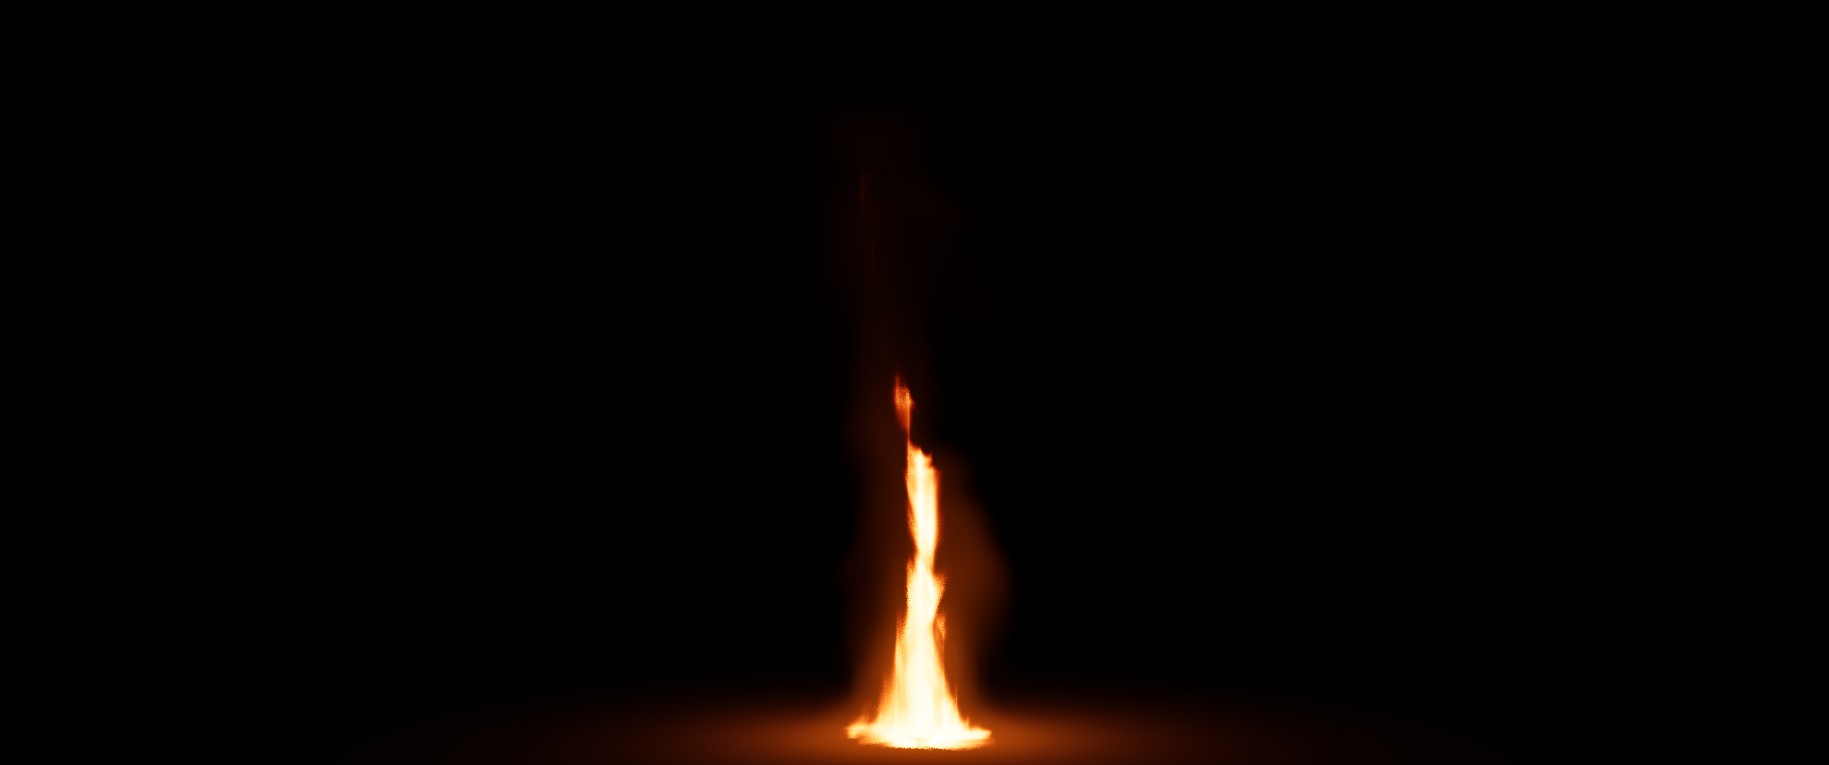
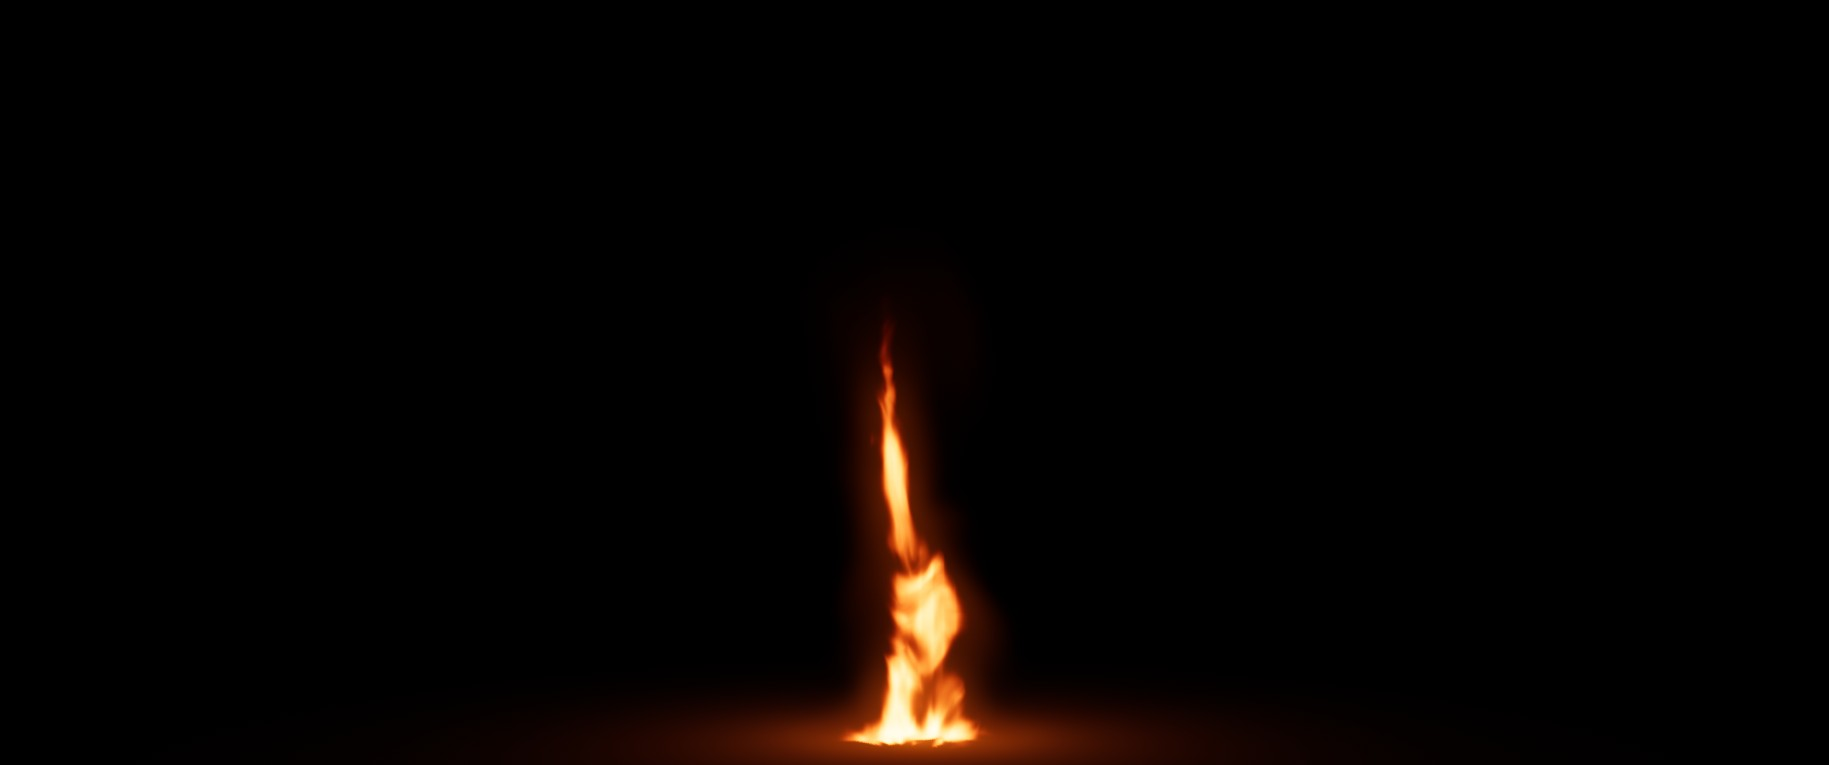
Pyro: the ball starts nearer the fire; new posters
The ball default spot sat partly off a phone-shaped frame. Posters
re-rendered with the accumulation and tricubic sampling.

Changed region(s): [[0.4363, 0.4209, 0.5921, 1.0]]

diff --git a/components/pyro/engine.ts b/components/pyro/engine.ts
@@ -283,7 +283,7 @@ export class PyroEngine {
   private renderFrame = 0
   // The collision ball: its centre and velocity (from the visitor's drags, easing to rest), and its uniform for the
   // pressure solve's levels.
-  private ballPos: Vec3 = [0.85, 0.55, 0]
+  private ballPos: Vec3 = [0.55, 0.7, 0]
   private ballVel: Vec3 = [0, 0, 0]
   private ballDragAt = 0
   private ballBuf: GPUBuffer
